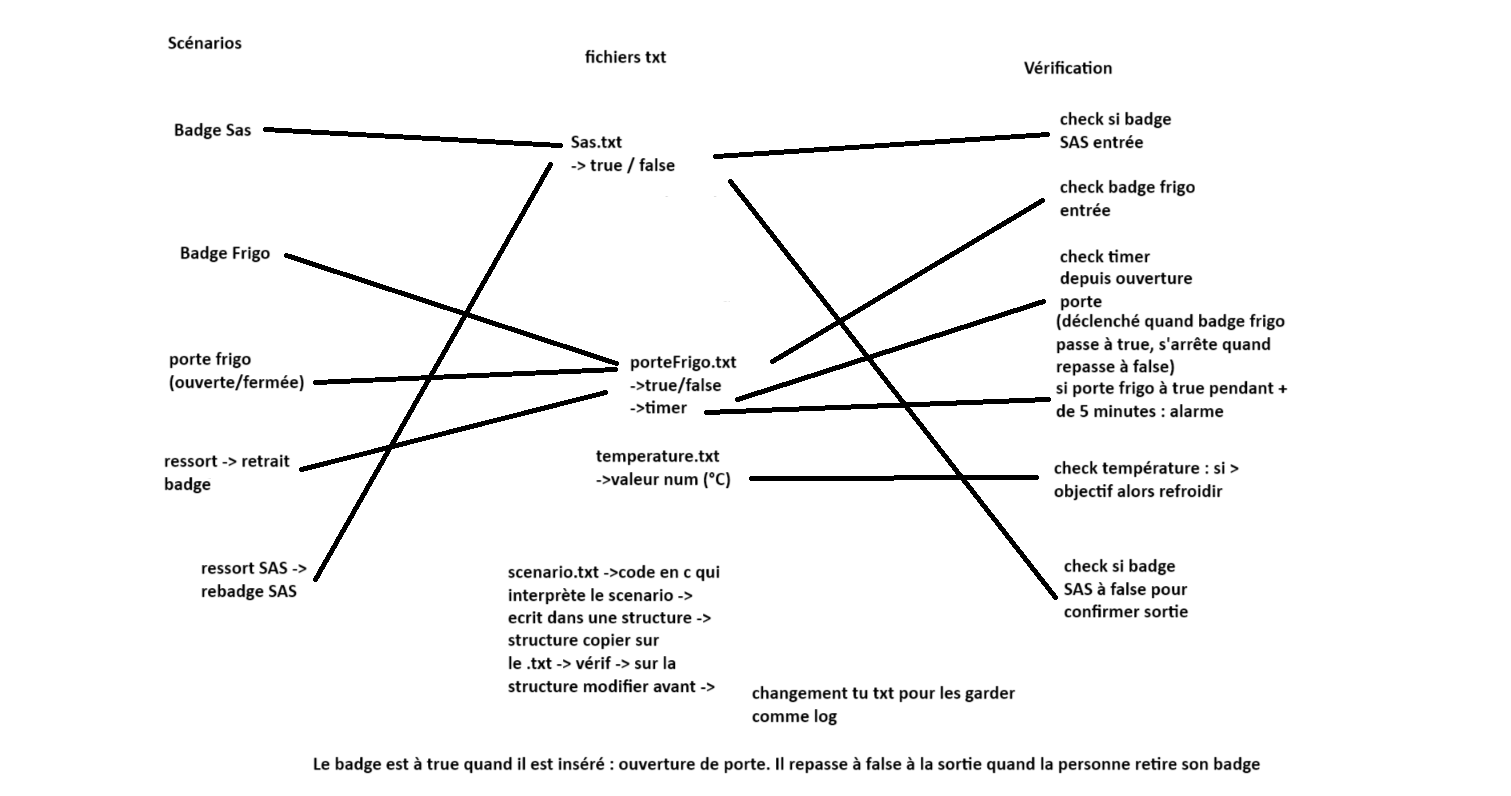
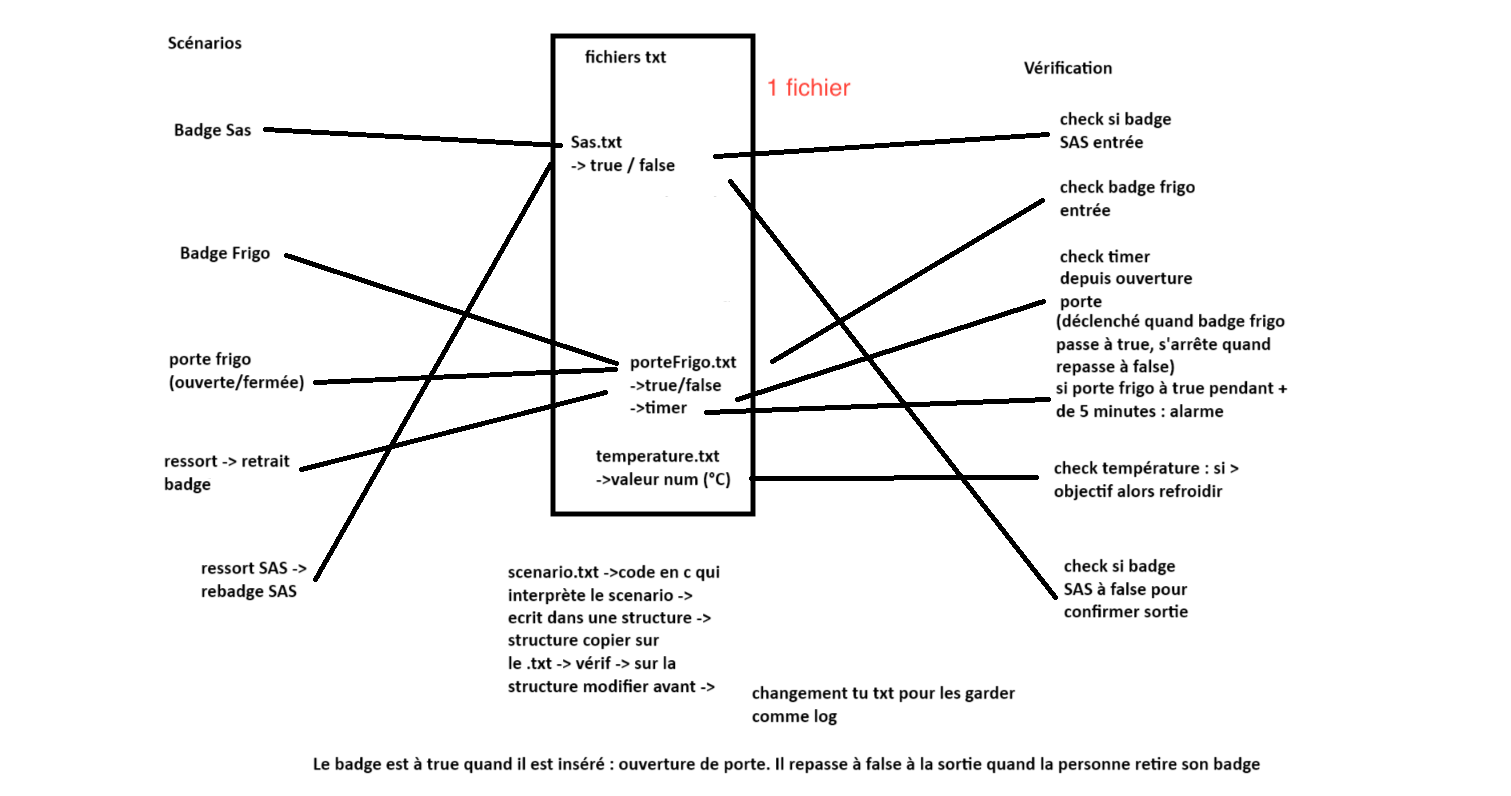
fonctionnel avec les scenario + ecriture dans les logs

diff --git a/main.c b/main.c
@@ -4,43 +4,77 @@
  
 
 struct Couloir {
-    char badgeEntre[256];
-    char badgeSortie[256];
+    // char badgeEntre[256];
+    // char badgeSortie[256];
+    int badgeEntre;
+    int badgeSortie;
 };
 
 
 struct Frigo {
-    char badgeFrigoEntre[256];
-    char badgeFrigoSortie[256];
-    char capteurTemp[256];
-    char timer[256];
+    // char badgeFrigoEntre[256];
+    // char badgeFrigoSortie[256];
+    // char capteurTemp[256];
+    // char timer[256];
+    int badgeFrigoEntre;
+    int badgeFrigoSortie;
+    int capteurTemp;
+    int timer;
 };
 
 char line2[256];
+struct Frigo frigoScenario;
+struct Couloir couloirScenario;
+
+void viderFichierLog(){
+    FILE *fp = fopen("./textFile/logs.txt", "w");
+    fclose(fp);
+}
 
 int verifBadgeEntre(int badge){
     if (badge == 1){
-        printf("La personne est rentré\n");
+        // printf("La personne est rentré\n");
         return 1;
     }
     else{
-        printf("La personne n'est pas rentré\n");
+        // printf("La personne n'est pas rentré\n");
         return 0;
     }
 }
 
 int verifBadgeSortie(int badge){
     if (badge == 1){
-        printf("ATTENTION : La personne n'est pas sorti\n");
+        // printf("La personne est sorti\n");
         return 1;
     }
     else{
-        printf("La personne est sorti\n");
+        // printf("ATTENTION : La personne n'est pas sorti\n");
         return 0;
     }
 }
 
-// Driver code
+int verifTemps(int temp){
+    if (temp > -35){
+        // printf("ATTENTIN : La température à remonté\n");
+        return 0;    
+    }else{
+        // printf("La température est bonne\n");
+        return 1;
+    }
+}
+
+int verifTime(int time){
+    if (time >1800){
+        // printf("ATTENTION : Le temps est dépassé\n");
+        return 0;
+    }else
+    {
+        // printf("Le temps est bon\n");
+        return 1;
+    }
+}
+
+
 int lireFichier(const char *filename, const char *searchValue) {
     char line[256];  // Une ligne peut contenir jusqu'à 255 caractères, ajustez selon vos besoins
     int lineNumber = 1;
@@ -74,27 +108,25 @@ int lireFichier(const char *filename, const char *searchValue) {
 
 
 
-int writeInFunction()
-{
-    char *filename = "./textFile/sas.txt";
+int writeInFunction(char text[256])
+{   printf("texte : %s\n", text);
+    char *filename = "./textFile/logs.txt";
 
-    // open the file for writing
-    FILE *fp = fopen(filename, "w");
+    // ouverture du fichier en mode "append" sinon le fichier est écrasé
+    FILE *fp = fopen(filename, "a");
     if (fp == NULL)
     {
         printf("Error opening the file %s", filename);
         return -1;
     }
-    // write to the text file
-    for (int i = 0; i < 10; i++)
-        fprintf(fp, "This is the line #%d\n", i + 1);
-
-    // close the file
+    // écriture dans le fichier
+    fprintf(fp, "%s\n", text);
+    // fermeture du fichier
     fclose(fp);
 
     return 0;
 }
-
+//fonction qui retourne le/les derniers nombres d'une chaine de caractère en int
 int retourneDenierNombre (char chaine[256]){
     int resultat;
     sscanf(chaine + (strlen(chaine) - 2), "%d", &resultat);
@@ -112,11 +144,59 @@ int retourneTime (char chaine[256]){
     return resultat;
 }
 
+int verifScenario(int i){
+    int allVerifPass = 0;
+    //Creation d'une variable logs qui va etre envoyé dans la fonction writeInFunction
+    char logs[265]; 
+    //concaténation du numéro de scénario
+    char numScenario[256];
+    sprintf(numScenario,"###### Scenario %d #######\n", i);
+
+    char phrasePlusTempFrigo[256];
+    char phrasePlusTimeFrigo[256];
+
+    strcat(logs, numScenario);
+    //vérification des badges entré
+    if (verifBadgeEntre(couloirScenario.badgeEntre) == 0){
+        strcat(logs, "La personne n'est pas rentré dans le sas\n");
+        allVerifPass++;
+    }
+    if (verifBadgeEntre(frigoScenario.badgeFrigoEntre) == 0){
+        strcat(logs, "La personne n'est pas rentré dans un frigo\n");
+        allVerifPass++;
+    }
+    if (verifTime(frigoScenario.timer) == 0){
+        sprintf(phrasePlusTimeFrigo, "La personne est resté trop longtemps dans le frigo : %dsec\n", frigoScenario.timer);
+        strcat(logs, phrasePlusTimeFrigo);
+        allVerifPass++;
+    }
+    if (verifBadgeSortie(frigoScenario.badgeFrigoSortie) == 0){
+        strcat(logs, "La personne n'est pas sorti du frigo\n");
+        allVerifPass++;
+    }
+    if (verifTemps(frigoScenario.capteurTemp) == 0){
+        sprintf(phrasePlusTempFrigo, "La température du frigo est trop haute : %d\n", frigoScenario.capteurTemp);
+        strcat(logs, phrasePlusTempFrigo);
+        allVerifPass++;
+    }
+    if (verifBadgeSortie(couloirScenario.badgeSortie) == 0){
+        strcat(logs, "La personne n'est pas sorti du sas\n");
+        allVerifPass++;
+    }
+    if (allVerifPass == 0){
+        printf("Le scénario est bon\n");
+        strcat(logs, "Le scénario est bon, tout s'est bien déroulé.\n");
+        writeInFunction(logs);
+        return 0;
+    }
+    writeInFunction(logs);
+    return 1;
+}
+
 
 void lectureScenario(int i ){
     //crétion des structures qui vont être utiliées
-    struct Frigo frigoScenario;
-    struct Couloir couloirScenario;
+   
 
     //création de varibale pour pouvoir concaténer les noms des variables avec i 
     char badgeEntre[50];
@@ -136,28 +216,42 @@ void lectureScenario(int i ){
 
     //recherche des variables dans le fichier via les variable concaténés
     // + ajout dans la strucutre en passant par la variable globale line2
-    int badgeSas1 = lireFichier("./textFile/sas.txt", badgeEntre);
-    strcpy(couloirScenario.badgeEntre, line2);
-    int badgeSas2 = lireFichier("./textFile/sas.txt", badgeSortie);
-    strcpy(couloirScenario.badgeSortie, line2);
-    int badgeFrigo1 = lireFichier("./textFile/sas.txt", badgeFrigoEntre);
-    strcpy(frigoScenario.badgeFrigoEntre, line2);
-    int badgeFrigo2 = lireFichier("./textFile/sas.txt", badgeFrigoSortie);
-    strcpy(frigoScenario.badgeFrigoSortie, line2);
-    int capteurTemp1 = lireFichier("./textFile/sas.txt", capteurTemp);
-    strcpy(frigoScenario.capteurTemp, line2);
-    int timer1 = lireFichier("./textFile/sas.txt", timer);
-    strcpy(frigoScenario.timer, line2);
-   
-   //affichage des structures
-    printf("\n");
-    printf("badge entre %d\n badge sortie %d\n badge frigo entre %d\n badge frigo sortie %d\n temp %d\n timer %d\n",retourneDenierNombre(couloirScenario.badgeEntre),retourneDenierNombre(couloirScenario.badgeSortie),retourneDenierNombre(frigoScenario.badgeFrigoEntre),retourneDenierNombre(frigoScenario.badgeFrigoSortie),retourneTemp(frigoScenario.capteurTemp),retourneTime(frigoScenario.timer));    
+    int badgeSas1 = lireFichier("./textFile/scenario.txt", badgeEntre);
+    int badgeSasEntreStruct = retourneDenierNombre(line2);
+    couloirScenario.badgeEntre = badgeSasEntreStruct;
+
+
+    int badgeSas2 = lireFichier("./textFile/scenario.txt", badgeSortie);
+    int badgeSasSortieStruct = retourneDenierNombre(line2);
+    couloirScenario.badgeSortie = badgeSasSortieStruct;
+
+    int badgeFrigo1 = lireFichier("./textFile/scenario.txt", badgeFrigoEntre);
+    int badgeFrigoEntreStruct1 = retourneDenierNombre(line2);
+    frigoScenario.badgeFrigoEntre = badgeFrigoEntreStruct1;
+
+    int badgeFrigo2 = lireFichier("./textFile/scenario.txt", badgeFrigoSortie);
+    int badgeFrigoSortieStruct = retourneDenierNombre(line2);
+    frigoScenario.badgeFrigoSortie = badgeFrigoSortieStruct;
+
+    int capteurTemp1 = lireFichier("./textFile/scenario.txt", capteurTemp);
+    int capteurTempStruct = retourneTemp(line2);
+    frigoScenario.capteurTemp = capteurTempStruct;
     
+    int timer1 = lireFichier("./textFile/scenario.txt", timer);
+    int timerStruct = retourneTime(line2);
+    frigoScenario.timer = timerStruct;
+
+   //affichage des structures
+    // printf("\n");
+    // printf("badge entre %d\n badge sortie %d\n badge frigo entre %d\n badge frigo sortie %d\n temp %d\n timer %d\n", couloirScenario.badgeEntre, couloirScenario.badgeSortie, frigoScenario.badgeFrigoEntre, frigoScenario.badgeFrigoSortie, frigoScenario.capteurTemp, frigoScenario.timer);
+    verifScenario(i);
 }
 
 int main() {
+    viderFichierLog();
     //boucle qui va parcourir les i scénarios
     for (int i = 1; i < 6; i++){
+        // printf("\n######## Scenario %d ########", i);
         //fonction de parcours de scénarios
         lectureScenario(i);
     }
